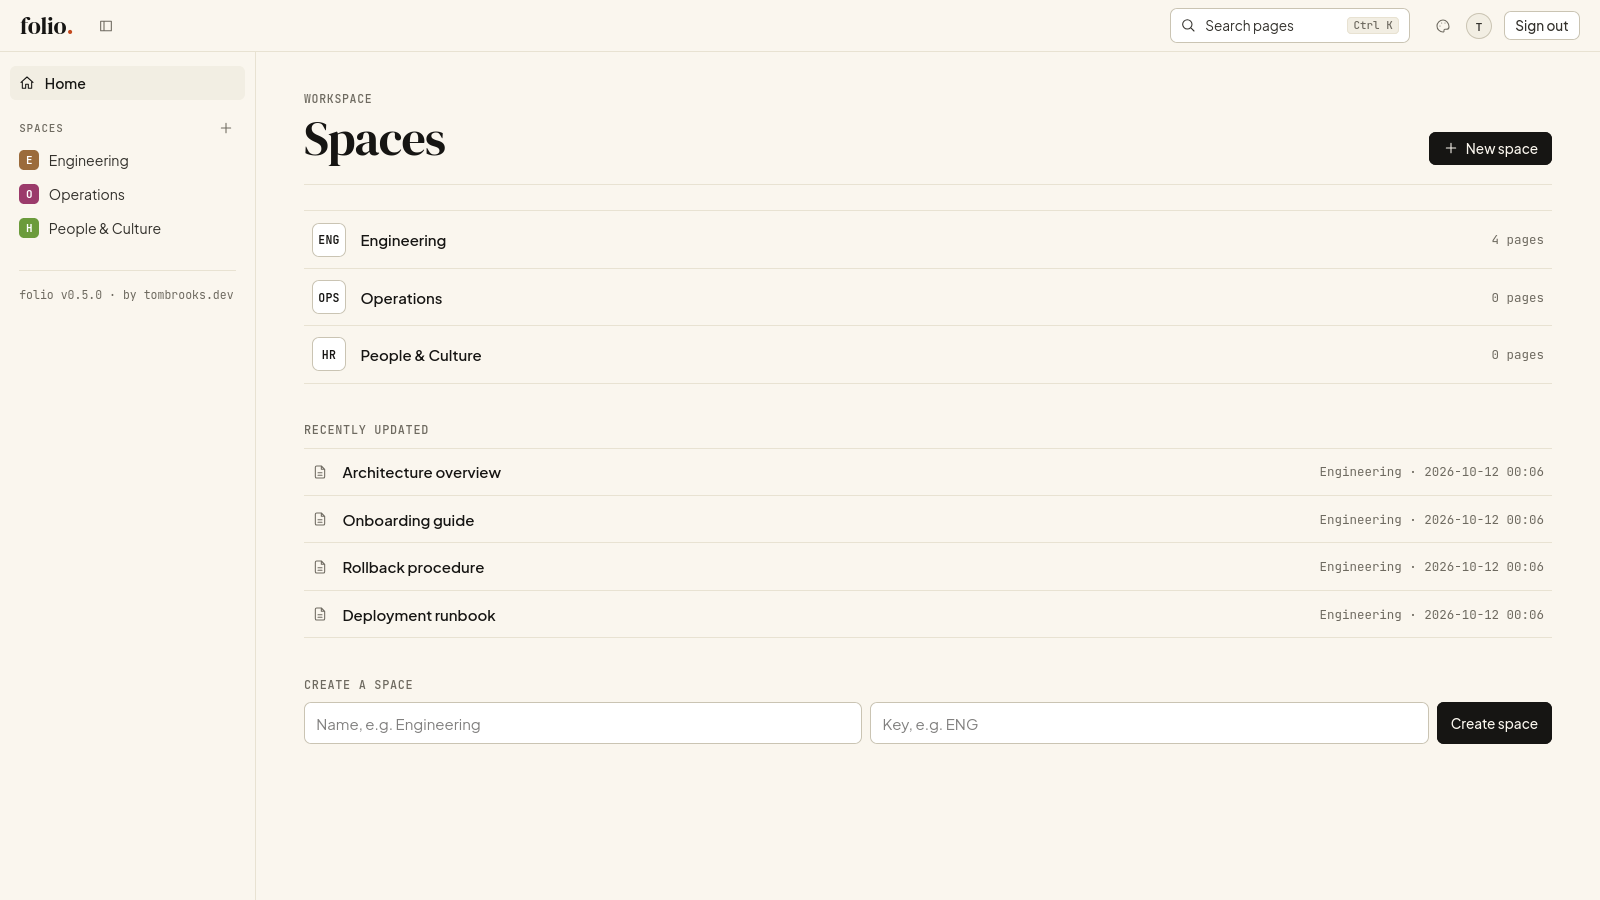
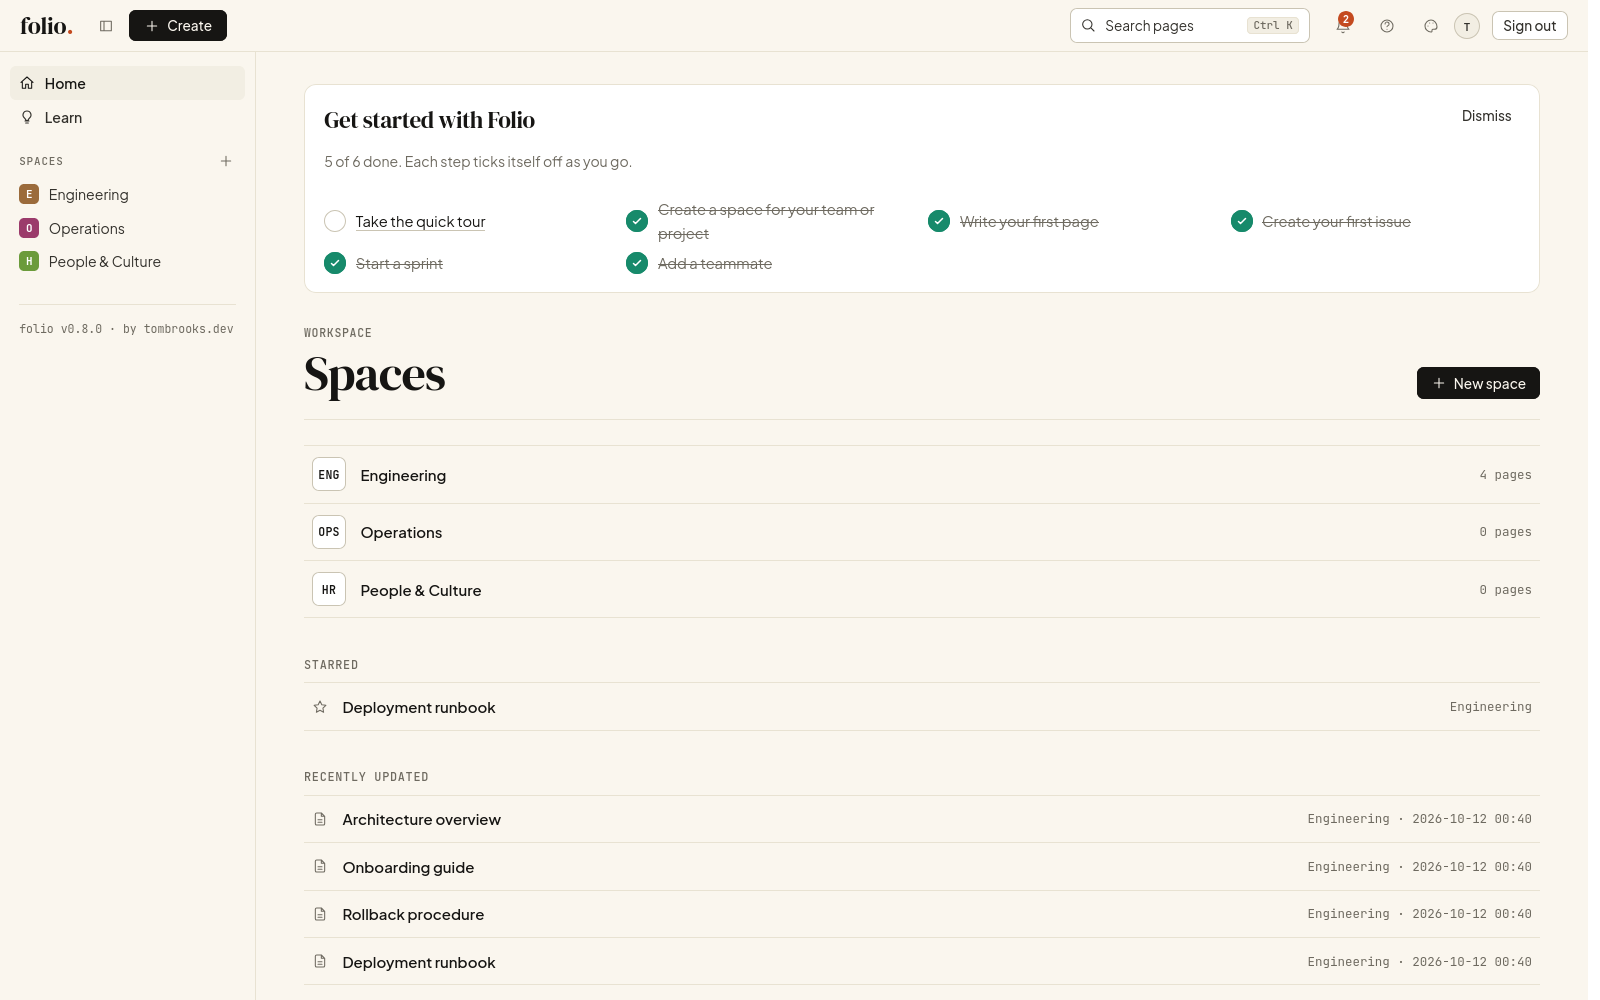
Refresh README screenshots for v0.8.0

diff --git a/README.md b/README.md
@@ -103,7 +103,15 @@ Folio copies what people actually use in Confluence and Jira and leaves out what
 |---|---|
 | ![Epic](docs/screenshots/epic.png) | ![Code](docs/screenshots/code.png) |
 
-| Home |
+| Learn (training area) | Notifications |
+|---|---|
+| ![Learn](docs/screenshots/learn.png) | ![Notifications](docs/screenshots/notifications.png) |
+
+| Swimlanes | Compare versions |
+|---|---|
+| ![Swimlanes](docs/screenshots/swimlanes.png) | ![Diff](docs/screenshots/diff.png) |
+
+| Home with the getting-started checklist |
 |---|
 | ![Home](docs/screenshots/home.png) |
 
